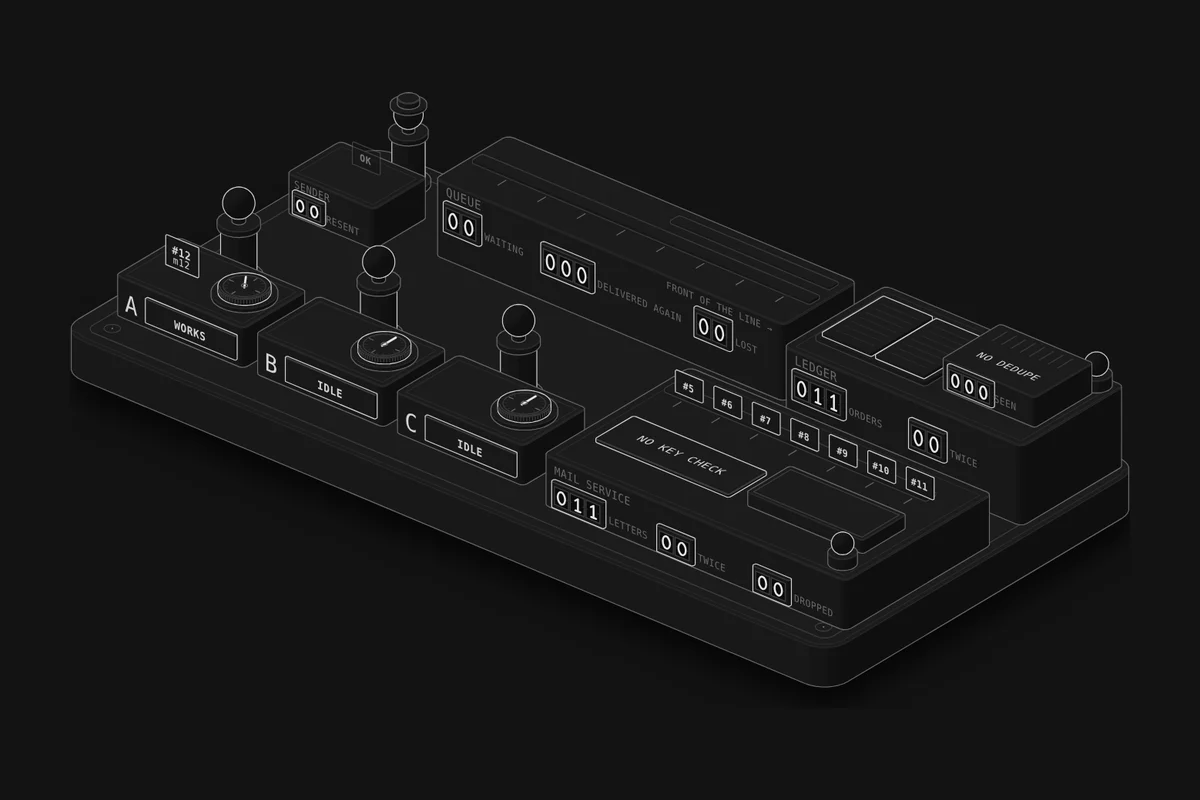
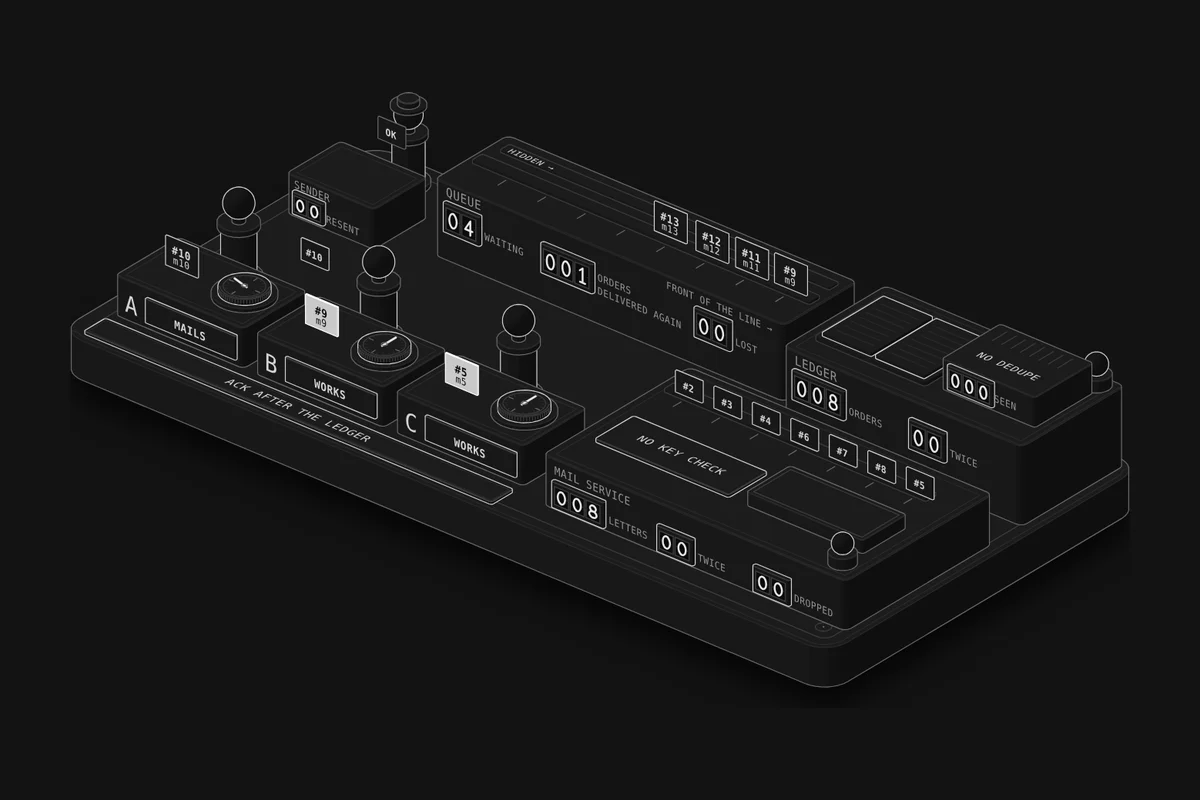
Lesson 69: fix review findings (hidden row, resent copies, lit key, ack plaque, Watch timing, caption)
- Envelopes in the hidden row are dimmed under a HIDDEN groove label, so idle workers no longer seem to ignore work.
- A resent order is narrated as a resent copy with its own message id; the counter reads ORDERS DELIVERED AGAIN.
- Lit means a repeat only: the DOWN plate and the lost reply no longer light; the key lists every lit part.
- A plaque in front of the desks shows the ack mode.
- Watch: the slow order and the lost reply are staged in the warm-up; the crash Watches skip the long timeout with a
  narrated clock jump; every outcome shows by 7 s. Ledger and mail lamps hold 1.6 s of page time.
- Every run opens with a slow order already past its timeout.
- The readout names the worker that held the envelope when its timeout ran out (logged at that moment).
- ES: SIN DEDUPLICAR, NO REVISA CLAVE. Caption under 150 words; model numbers moved to the note.

Claude-Session: https://claude.ai/code/session_01S5z2gCvevbrGU3fXgpGDmP

diff --git a/src/lessons/guarantees/live.ts b/src/lessons/guarantees/live.ts
@@ -18,7 +18,7 @@ export default function mount({ P, G, ENV_SVG, LETTER_SVG, SLIP_SVG, STATUS }, r
   const layers = Object.fromEntries(["rack", "desk", "sent", "fly"].map((n) => [n, q('[data-layer="' + n + '"]')]));
   const desks = [0, 1, 2].map((i) => ({ plate: q('[data-status-plate="' + i + '"]'), status: q('[data-status="' + i + '"]'), dial: WB.dial(svg, "vt" + i, P), shown: {} }));
   const counters = Object.fromEntries(["waiting", "again", "lost", "resent", "orders", "ledger2", "seen", "letters", "letters2", "dropped"].map((n) => [n, WB.counter(svg, n, P)]));
-  const plaques = { dedupe: [...svg.querySelectorAll("[data-dedupe-plaque]")], key: [...svg.querySelectorAll("[data-key-plaque]")] };
+  const plaques = { dedupe: [...svg.querySelectorAll("[data-dedupe-plaque]")], key: [...svg.querySelectorAll("[data-key-plaque]")], ack: [...svg.querySelectorAll("[data-ack-plaque]")] };
   const flash = { ledger: [q('[data-flash-ledger="on"]'), q('[data-flash-ledger="off"]')], mail: [q('[data-flash-mail="on"]'), q('[data-flash-mail="off"]')] };
   const NAME = "ABC";
   const DESK_TOP = (i) => [G.ENV_SPOT[i][0], G.ENV_SPOT[i][1], G.ENV_SPOT[i][2]];
@@ -35,33 +35,41 @@ export default function mount({ P, G, ENV_SVG, LETTER_SVG, SLIP_SVG, STATUS }, r
     if (kind === "letter") return { g, kind, lit: pick("[data-letter]"), a: pick("[data-letter-text]"), s: {} };
     return { g, kind, lit: pick("[data-slip]"), a: pick("[data-slip-text]"), s: {} };
   }
-  function dress(el, a, b, lit) {
+  function dress(el, a, b, lit, hidden = false) {
     const s = el.s;
     if (s.a !== a) { s.a = a; setText(el.a, a); }
     if (el.b && s.b !== b) { s.b = b; setText(el.b, b); }
     if (s.lit !== lit) { s.lit = lit; setLit(el.lit, lit); }
+    if (s.hidden !== hidden) { s.hidden = hidden; el.g.setAttribute("opacity", hidden ? "0.38" : "1"); }
   }
   const sprites = new Map();   // key -> { kind, el, pos, mid, layer, leaving, until }
   function drop(key) { const sp = sprites.get(key); sp.el.g.remove(); pools[sp.kind].push(sp.el); sprites.delete(key); }
 
   // ---------- settings and the run ----------
   const cfg = { ack: "after", vt: "10", crash: "0.1", lost: "0", dedupe: "off", key: "plain", speed: 1 };
-  let model, clock, logAt, seed = 5, sent, dropped, replies, flashAt, stages, held, saidAt, saidRank, quietSince;
+  let model, clock, logAt, seed = 5, sent, dropped, replies, flashAt, stages, held, saidAt, saidRank, quietSince, jump;
   const WARM = 24;
+  const wallNow = () => performance.now() / 1000;
 
   function modelCfg() {
     return { ack: cfg.ack, vt: cfg.vt === "60" ? 60 : 10, heartbeat: cfg.vt === "hb", crash: Number(cfg.crash), lostAck: Number(cfg.lost), dedupe: cfg.dedupe, key: cfg.key === "key" };
   }
-  function restart(warm = WARM) {
+  // A run opens with an incident already under way: a slow order (14 s of work) received 8 s before the first frame, so
+  // with the 10 s timeout its envelope is handed out a second time 2 s in, and the order is written twice by 18 s.
+  // A Watch passes its own warm-up step instead (or none).
+  const incident = (m, warm) => { m.runTo(warm - 8); m.slowOrder(14); };
+  function restart(warm = WARM, pre = incident) {
     for (const key of [...sprites.keys()]) drop(key);
     model = makeSim(modelCfg(), seed);
     seed = (seed * 7 + 3) % 9973 + 1;
     clock = warm; logAt = 0; sent = []; dropped = []; replies = []; flashAt = { ledger: -9, mail: -9 }; stages = [];
-    held = null; saidAt = -9; saidRank = 0; quietSince = 0;
+    held = null; saidAt = -9; saidRank = 0; quietSince = 0; jump = null;
+    if (pre) pre(model, warm);
     model.runTo(clock);
     narrate(true);
     plaques.dedupe.forEach((g) => show(g, g.getAttribute("data-dedupe-plaque") === cfg.dedupe));
     plaques.key.forEach((g) => show(g, g.getAttribute("data-key-plaque") === (cfg.key === "key" ? "on" : "off")));
+    plaques.ack.forEach((g) => show(g, g.getAttribute("data-ack-plaque") === cfg.ack));
     paint(0, true);
     showStats();
   }
@@ -90,27 +98,33 @@ export default function mount({ P, G, ENV_SVG, LETTER_SVG, SLIP_SVG, STATUS }, r
       if (e.t > clock) break;
       const o = e.m ? e.m.o : e.o, id = o ? "#" + o.id : "", w = e.w ? NAME[e.w.i] : "", mid = e.m ? "m" + e.m.mid : "";
       if (e.type === "stored") replies.push({ t: e.t, lose: e.lose, id });
-      if (e.type === "letter") { sent.push({ key: "S" + e.t.toFixed(4) + o.id, id, dup: e.n >= 2 }); if (sent.length > G.SENT) sent.shift(); if (e.n >= 2) flashAt.mail = e.t; }
+      if (e.type === "letter") { sent.push({ key: "S" + e.t.toFixed(4) + o.id, id, dup: e.n >= 2 }); if (sent.length > G.SENT) sent.shift(); if (e.n >= 2 && !quiet) flashAt.mail = wallNow(); }
       if (e.type === "dropped") { dropped.push({ key: "T" + e.t.toFixed(4) + o.id, id }); if (dropped.length > 3) dropped.shift(); }
-      if (e.type === "ledger" && e.n >= 2) flashAt.ledger = e.t;
+      if (e.type === "ledger" && e.n >= 2 && !quiet) flashAt.ledger = wallNow();
       if (quiet) continue;
       switch (e.type) {
         case "receive":
           if (e.skip) break;
           if (e.copy) {
+            // a second message for the same order (the sender resent it) is a copy with its own id, not the same one again
             const other = model.workers.find((x) => x.att && x !== e.w && x.att.o === o);
-            say(3, other ? T(w + " receives " + id + " again · " + NAME[other.i] + " is still working on it", w + " recibe " + id + " de nuevo · " + NAME[other.i] + " sigue trabajando en él")
-              : T(w + " receives " + id + " again (" + mid + ")", w + " recibe " + id + " de nuevo (" + mid + ")"));
+            const resent = e.m.resent && e.m.receives === 1;
+            const what = resent ? T(w + " receives " + id + "'s resent copy (" + mid + ")", w + " recibe la copia reenviada de " + id + " (" + mid + ")")
+              : T(w + " receives " + id + " (" + mid + ") again", w + " recibe " + id + " (" + mid + ") de nuevo");
+            say(3, other ? T(what.en + " · " + NAME[other.i] + " is still working on it", what.es + " · " + NAME[other.i] + " sigue trabajando en él") : what);
           } else say(0, T(w + " takes " + id + " from the front of the line", w + " toma " + id + " del frente de la fila"));
           break;
         case "shown":
-          if (e.held) say(4, T(id + ": timeout ran out while " + NAME[e.m.holder ? e.m.holder.i : 0] + " still works on it · back in line", id + ": venció su tiempo mientras " + NAME[e.m.holder ? e.m.holder.i : 0] + " sigue con él · vuelve a la fila"));
+          // the worker that still has it when the timeout ran out (the message's holder changes once someone takes it again)
+          if (e.held) say(4, T(id + ": timeout ran out while " + NAME[e.holder] + " still works on it · back in line", id + ": venció su tiempo mientras " + NAME[e.holder] + " sigue con él · vuelve a la fila"));
           else say(3, T(id + ": timeout ran out · back at the front of the line", id + ": venció su tiempo · vuelve al frente de la fila"));
           break;
         case "crash": {
           const after = { letter: T(" after mailing " + id + "'s letter", " después de enviar la carta de " + id), ledger: T(" after writing " + id, " después de escribir " + id), work: T(" after the work on " + id, " después del trabajo de " + id), ack: T(" right after acking " + id, " justo después del ack de " + id) }[e.after];
           const rest = cfg.ack === "first" ? T("", "") : T(" · the envelope waits hidden for its timeout", " · el sobre espera oculto a que venza su tiempo");
           say(5, T(w + " crashed" + (after ? after.en : " on " + id) + rest.en, w + " se cayó" + (after ? after.es : " con " + id) + rest.es));
+          // a Watch about a crash skips most of the long timeout, so the redelivery comes within seconds
+          if (jump && jump.armed && e.after === "letter" && !e.m.acked && cfg.ack !== "first") jump = { at: e.t + 3, to: e.m.visibleAt - 2.5, crashed: e.t, id, w };
           break;
         }
         case "letter": say(e.n >= 2 ? 5 : 0, e.n >= 2 ? T(id + ": the customer gets the same letter a second time", id + ": el cliente recibe la misma carta por segunda vez") : T(w + " mailed " + id + "'s letter", w + " envió la carta de " + id)); break;
@@ -133,13 +147,13 @@ export default function mount({ P, G, ENV_SVG, LETTER_SVG, SLIP_SVG, STATUS }, r
   const stepStart = (a, k) => (k > 0 ? a.steps[k - 1].end : a.start);
   function wanted() {
     const out = new Map();
-    const env = (key, m, target, layer, lit, spawn) => out.set(key, { kind: "env", mid: m.mid, target, layer, lit, a: "#" + m.o.id, b: "m" + m.mid, spawn, ease: true });
+    const env = (key, m, target, layer, lit, spawn, hidden = false) => out.set(key, { kind: "env", mid: m.mid, target, layer, lit, a: "#" + m.o.id, b: "m" + m.mid, spawn, ease: true, hidden });
     model.visible.slice(0, G.SLOTS).forEach((m, i) => env("q" + m.mid, m, [G.SLOT_X[i], G.RACK_Y, G.RACK_Z], "rack", false,
       m.receives === 0 ? [...G.SENDER_AT] : m.holder ? DESK_TOP(m.holder.i) : null));
     let j = 0;
     for (const m of model.inflight) {
       if (m.holder || j >= G.HIDE_X.length) continue;
-      env("q" + m.mid, m, [G.HIDE_X[j++], G.HIDE_Y, G.RACK_Z], "rack", false, null);
+      env("q" + m.mid, m, [G.HIDE_X[j++], G.HIDE_Y, G.RACK_Z], "rack", false, null, true);
     }
     for (const w of model.workers) {
       const a = w.att;
@@ -193,7 +207,7 @@ export default function mount({ P, G, ENV_SVG, LETTER_SVG, SLIP_SVG, STATUS }, r
       }
       sp.leaving = false; sp.el.g.style.opacity = "";
       sp.mid = w.mid; sp.target = w.target; sp.want = w;
-      dress(sp.el, w.a, w.b, w.lit);
+      dress(sp.el, w.a, w.b, w.lit, !!w.hidden);
     }
     for (const [key, sp] of sprites) {
       if (want.has(key)) continue;
@@ -230,12 +244,13 @@ export default function mount({ P, G, ENV_SVG, LETTER_SVG, SLIP_SVG, STATUS }, r
       let st = "idle";
       if (down) st = "down";
       else if (a && a.steps[a.k]) { const name = a.steps[a.k].name; st = name === "check" && a.skip ? "skip" : name; }
-      if (s.st !== st) { s.st = st; setText(d.status, L(STATUS[st])); setLit(d.plate, st === "down"); }
+      if (s.st !== st) { s.st = st; setText(d.status, L(STATUS[st])); }
       let v = 0;
       if (a && cfg.ack !== "first" && !a.m.acked && a.m.lastRecv === a.recv) v = clamp((a.m.visibleAt - clock) / model.cfg.vt);
       if (s.v === undefined || Math.abs(s.v - v) > 0.004) { s.v = v; d.dial.set(v); }
     });
-    for (const k of ["ledger", "mail"]) { const on = clock - flashAt[k] < 1.4; show(flash[k][0], on); show(flash[k][1], !on); }
+    // the lamps stay lit 1.6 s of page time, whatever the speed
+    for (const k of ["ledger", "mail"]) { const on = wallNow() - flashAt[k] < 1.6; show(flash[k][0], on); show(flash[k][1], !on); }
     const st = model.st;
     counters.waiting.setClamped(model.visible.length);
     counters.again.setClamped(st.again);
@@ -264,6 +279,16 @@ export default function mount({ P, G, ENV_SVG, LETTER_SVG, SLIP_SVG, STATUS }, r
   const loop = WB.loop({ stage, step: (dt) => {
     clock += dt * cfg.speed;
     while (stages.length && clock >= stages[0].at) stages.shift().run();
+    if (jump && jump.at !== undefined && clock >= jump.at) {
+      const j = jump; jump = null;
+      if (j.to > clock) {
+        clock = j.to; model.runTo(clock); narrate(true);
+        for (const key of [...sprites.keys()]) drop(key);
+        const secs = Math.round(clock - j.crashed);
+        say(8, T(secs + " s later · " + j.id + " still waits hidden: nothing tells the queue that " + j.w + " crashed", secs + " s después · " + j.id + " sigue oculto: nada le avisa a la cola que " + j.w + " se cayó"));
+        paint(0, true);
+      }
+    }
     model.runTo(clock);
     paint(dt);
     statTimer += dt; if (statTimer > 0.2) { statTimer = 0; showStats(); }
@@ -279,12 +304,12 @@ export default function mount({ P, G, ENV_SVG, LETTER_SVG, SLIP_SVG, STATUS }, r
   root.on("change", (name, value) => set(name, value));
   const wake = () => { if (loop.paused) loop.setPaused(false); };
   const acts = {
-    slow: () => { const o = model.slowOrder(26); say(6, T("slow order #" + o.id + " sent: 26 s of work", "pedido lento #" + o.id + " enviado: 26 s de trabajo")); },
+    slow: (secs = 26) => { const o = model.slowOrder(secs); say(6, T("slow order #" + o.id + " sent: " + secs + " s of work", "pedido lento #" + o.id + " enviado: " + secs + " s de trabajo")); },
     crash: () => { model.crashAfterLetter(); say(6, T("the next worker to mail a letter will crash right after it", "el próximo trabajador que envíe una carta se caerá justo después")); },
     lose: () => { const o = model.loseNextAck(); say(6, T("order #" + o.id + " sent · the queue's reply will be lost", "pedido #" + o.id + " enviado · se perderá la respuesta de la cola")); },
   };
   const actions = {
-    slow: () => { acts.slow(); wake(); },
+    slow: () => { acts.slow(26); wake(); },
     crash: () => { acts.crash(); wake(); },
     lose: () => { acts.lose(); wake(); },
     reset: () => { restart(); say(9, T("started over", "empezó de nuevo")); },
@@ -295,11 +320,26 @@ export default function mount({ P, G, ENV_SVG, LETTER_SVG, SLIP_SVG, STATUS }, r
   root.on("watch", (w) => {
     for (const key of ["ack", "vt", "crash", "lost", "dedupe", "key"]) set(key, w[key], true);
     set("speed", String(w.speed || 1));
-    restart(8);
+    // the moment each Watch is about, staged in the warm-up where it would otherwise come too late to see
+    let o = null;
+    const pre = {
+      // a slow order of 15 s, received 9 s before the press: its 10 s timeout runs out 1 s in, a second worker takes it
+      // while the first still works, and both write it within about 20 s of model time
+      slow: (m, wm) => { m.runTo(wm - 9); o = m.slowOrder(15); },
+      // the queue's reply to an order was lost 2.5 s before the press: the sender resends it half a second in
+      lose: (m, wm) => { m.runTo(wm - 2.5); o = m.loseNextAck(); },
+    }[w.stage] || null;
+    restart(12, pre);
     const at = (dt, run) => stages.push({ at: clock + dt, run });
-    if (w.stage === "slow") at(0.8, acts.slow);
-    if (w.stage === "crash" || w.stage === "letter") at(0.8, acts.crash);
-    if (w.stage === "lose") at(0.8, acts.lose);
+    const holder = () => { const x = o && model.workers.find((k) => k.att && k.att.o === o); return x ? NAME[x.i] : null; };
+    if (w.stage === "slow") {
+      const h = holder();
+      say(7, h ? T("slow order #" + o.id + ", 15 s of work, has been at " + h + "'s desk for 9 s · its timeout is 10 s", "el pedido lento #" + o.id + ", de 15 s de trabajo, lleva 9 s en el escritorio de " + h + " · su tiempo es de 10 s")
+        : T("slow order #" + o.id + ": 15 s of work, a 10 s timeout", "pedido lento #" + o.id + ": 15 s de trabajo, un tiempo de 10 s"));
+    }
+    if (w.stage === "lose") say(7, T("the queue's reply about #" + o.id + " was lost · the sender will send it again", "se perdió la respuesta de la cola sobre #" + o.id + " · el remitente lo volverá a enviar"));
+    // a crash right after a letter: an order sent now (so a letter comes within seconds), the next letter crashes its worker
+    if (w.stage === "crash" || w.stage === "letter") { at(0.5, () => { model.slowOrder(2); acts.crash(); }); jump = { armed: true }; }
     if (w.stage === "all") { at(0.8, acts.slow); at(3, acts.lose); at(6, acts.crash); }
     stages.sort((a, b) => a.at - b.at);
     wake();

diff --git a/src/lessons/guarantees/page.ts b/src/lessons/guarantees/page.ts
@@ -83,7 +83,7 @@ const EXPERIMENTS = [
       "The timeout starts when a worker receives the message, and the queue can't tell a slow worker from a dead one. When 10 s pass without an ack, the message becomes visible again and the next free worker receives it, while the first one is still working on it. Nothing failed, and the order is written twice: " + k1(A.short.ledgerTwice) + " orders per 1,000, all of them slow ones; those still running at 20 s went out a third time (" + k1(A.short.ledgerThrice) + " per 1,000). The copies cost capacity too: " + pct(A.short.copyShare) + " of the workers' time went on orders someone else was already doing. In lesson 33, Queues, the repeats came from crashes; here the timeout alone makes them. A waiting message's clock doesn't run: that's the retention period, a different setting. SQS's default visibility timeout is 30 s; set it above your slowest processing, or extend it while you work (the next experiment).",
       "El tiempo empieza cuando un trabajador recibe el mensaje, y la cola no distingue un trabajador lento de uno muerto. Cuando pasan 10 s sin ack, el mensaje vuelve a quedar visible y el siguiente trabajador libre lo recibe, mientras el primero todavía trabaja en él. Nada falló, y el pedido se escribe dos veces: " + k1(A.short.ledgerTwice) + " pedidos cada 1000, todos lentos; los que seguían a los 20 s salieron una tercera vez (" + k1(A.short.ledgerThrice) + " cada 1000). Las copias también cuestan capacidad: el " + pct(A.short.copyShare) + " del tiempo de los trabajadores se fue en pedidos que otro ya estaba haciendo. En la lección 33, Colas, las repeticiones venían de caídas; aquí las produce solo el tiempo de invisibilidad (visibility timeout). El reloj de un mensaje que espera en la fila no corre: eso es el período de retención, otro ajuste. El valor por defecto en SQS es 30 s; ponlo por encima de tu procesamiento más lento, o extiéndelo mientras trabajas (el siguiente experimento).",
     ),
-    watch: { ack: "after", vt: "10", crash: "0", lost: "0", dedupe: "off", key: "plain", stage: "slow" },
+    watch: { ack: "after", vt: "10", crash: "0", lost: "0", dedupe: "off", key: "plain", stage: "slow", speed: 3 },
   },
   {
     id: "beat",
@@ -155,7 +155,7 @@ const EXPERIMENTS = [
       "Deliveries didn't change: " + k1(E.keyed.again) + " orders per 1,000 were delivered more than once, because every source of repeats is still there and no queue setting removes them all. What changed is what a repeat does. The ledger refuses a second entry for an order id it has recorded, because the id is recorded in the same transaction as the entry (recorded separately, after the effect, a crash in between lets the repeat through: lesson 24, Outbox pattern). The mail service drops a letter whose key it has seen: letters sent twice went from " + k1(E.plain.lettersTwice) + " per 1,000 orders to " + k1(E.keyed.lettersTwice) + ", and " + k1(E.keyed.dropped) + " repeats per 1,000 were dropped. Copies running at the same time, from the short timeout, are covered as well: the second to commit finds its id taken. That's effectively once: at-least-once delivery, with every effect idempotent on its own.",
       "Las entregas no cambiaron: " + k1(E.keyed.again) + " pedidos cada 1000 se entregaron más de una vez, porque todas las fuentes de repeticiones siguen ahí y ningún ajuste de la cola las elimina todas. Lo que cambió es lo que hace una repetición. El libro rechaza una segunda entrada para un id de pedido que ya registró, porque el id se registra en la misma transacción que la entrada (registrado aparte, después del efecto, una caída en el medio deja pasar la repetición: lección 24, Patrón outbox). El servicio de correo descarta una carta cuya clave ya vio: las cartas enviadas dos veces pasaron de " + k1(E.plain.lettersTwice) + " cada 1000 pedidos a " + k1(E.keyed.lettersTwice) + ", y se descartaron " + k1(E.keyed.dropped) + " repeticiones cada 1000. Las copias que corren al mismo tiempo, por el tiempo corto, también quedan cubiertas: la segunda en hacer commit encuentra su id ocupado. Eso es efectivamente una vez (effectively-once): entrega al menos una vez, con cada efecto idempotente por su cuenta.",
     ),
-    watch: { ack: "after", vt: "10", crash: "0.1", lost: "0.1", dedupe: "order", key: "key", stage: "all" },
+    watch: { ack: "after", vt: "10", crash: "0.1", lost: "0.1", dedupe: "order", key: "key", stage: "all", speed: 3 },
   },
 ];
 
@@ -191,13 +191,13 @@ export default defineLesson({
     plate: {
       title: t("Mail-order room", "Sala de pedidos por correo"),
       keys: [
-        { mark: "lit", label: t("An envelope still being worked after its timeout ran out; a letter sent twice; a lost reply; the lamps when an order is written or mailed twice", "Un sobre que se sigue trabajando después de que venció su tiempo; una carta enviada dos veces; una respuesta perdida; las lámparas cuando un pedido se escribe o se envía dos veces") },
+        { mark: "lit", label: t("A repeat: an envelope still being worked after its timeout ran out, so another worker can get the same order; a letter sent a second time; the lamps on the ledger and the mail service when an order is written or mailed twice", "Una repetición: un sobre que se sigue trabajando después de que venció su tiempo, así que otro trabajador puede recibir el mismo pedido; una carta enviada por segunda vez; las lámparas del libro y del servicio de correo cuando un pedido se escribe o se envía dos veces") },
         { mark: "raised", label: t("Envelopes: order number on top, the queue's message id below", "Sobres: número de pedido arriba, id de mensaje de la cola abajo") },
-        { mark: "flat", label: t("The queue's line on its rack, the front on the right; a crashed worker's envelope waits hidden in the row behind it", "La fila de la cola en su estante, con el frente a la derecha; el sobre de un trabajador caído espera oculto en la hilera de atrás") },
+        { mark: "flat", label: t("The queue's line on its rack, the front on the right; behind it the hidden row, where a crashed worker's envelope waits, dimmed", "La fila de la cola en su estante, con el frente a la derecha; detrás, la hilera oculta, donde espera atenuado el sobre de un trabajador caído") },
       ],
       caption: t(
-        "The sender (back left) puts each order in an envelope and sends it to the queue; if the queue's reply doesn't come back within " + RETRY + " s, it sends the order again as a new message (RESENT). Workers A, B and C take the envelope at the front of the line. The dial on each desk is that envelope's visibility timeout: when it runs out before the ack, the queue puts the message back at the front of the line and the worker's envelope lights, because someone else can now get the same order. A job: the work (" + WORK_RANGE + ", or " + SLOW_RANGE + " for one order in " + SLOW_EVERY + "), the letter through the mail service, the entry in the ledger, then the ack; in the transaction mode the entry and the ack commit together. A crashed worker is back after " + DOWN + " s, and its envelope waits in the hidden row on the queue until its timeout runs out. The index box on the ledger is the dedupe table, kept with the entries; the plate on the mail service says whether it checks idempotency keys, and the repeats it drops land in its tray. " + RATE + " orders a second for " + WORKERS + " workers; times are illustrative and round.",
-        "El remitente (al fondo a la izquierda) pone cada pedido en un sobre y lo envía a la cola; si la respuesta de la cola no vuelve en " + RETRY + " s, envía el pedido otra vez como un mensaje nuevo (REENVÍOS). Los trabajadores A, B y C toman el sobre del frente de la fila. El dial de cada escritorio es el tiempo de invisibilidad de ese sobre: cuando vence antes del ack, la cola vuelve a poner el mensaje al frente de la fila y el sobre del trabajador se enciende, porque ahora otro puede recibir el mismo pedido. Una tarea: el trabajo (" + WORK_RANGE + ", o " + SLOW_RANGE + " para uno de cada " + SLOW_EVERY + " pedidos), la carta por el servicio de correo, la entrada en el libro y después el ack; en el modo de transacción, la entrada y el ack se confirman juntos. Un trabajador caído vuelve a los " + DOWN + " s, y su sobre espera en la hilera oculta de la cola hasta que vence su tiempo. La caja de fichas del libro es la tabla de deduplicación, guardada junto a las entradas; la placa del servicio de correo dice si revisa claves de idempotencia, y las repeticiones que descarta caen en su bandeja. " + RATE + " pedidos por segundo para " + WORKERS + " trabajadores; los tiempos son ilustrativos y redondos.",
+        "The sender (back left) sends each order to the queue; if the queue's reply doesn't come back within " + RETRY + " s, it sends the order again as a new message (RESENT). Workers A, B and C take the envelope at the front of the line; the dial on each desk is its visibility timeout. If it runs out before the ack, the queue hands the message out again and the worker's envelope lights. A job is the work, a letter through the mail service, a ledger entry and the ack, in the order on the plaque in front of the desks. A crashed worker is back after " + DOWN + " s; its envelope waits in the hidden row until its timeout runs out. The index box on the ledger is the dedupe table; the plate on the mail service says whether it checks idempotency keys, and its tray holds the repeats it drops.",
+        "El remitente (al fondo a la izquierda) envía cada pedido a la cola; si la respuesta de la cola no vuelve en " + RETRY + " s, envía el pedido otra vez como un mensaje nuevo (REENVÍOS). Los trabajadores A, B y C toman el sobre del frente de la fila; el dial de cada escritorio es su tiempo de invisibilidad. Si vence antes del ack, la cola vuelve a entregar el mensaje y se enciende el sobre del trabajador. Una tarea es el trabajo, una carta por el servicio de correo, una entrada en el libro y el ack, en el orden de la placa delante de los escritorios. Un trabajador caído vuelve a los " + DOWN + " s; su sobre espera en la hilera oculta hasta que vence su tiempo. La caja de fichas del libro es la tabla de deduplicación; la placa del correo dice si revisa claves de idempotencia, y su bandeja guarda las repeticiones descartadas.",
       ),
       stage: { "data-mailroom": "" },
       label: t("Delivery guarantees simulation. Space pauses or resumes.", "Simulación de garantías de entrega. Espacio pausa o reanuda."),
@@ -205,7 +205,7 @@ export default defineLesson({
     svg: buildFigure(),
     stats: [
       ["waiting", t("Waiting", "En espera")],
-      ["again", t("Delivered again", "Reentregados")],
+      ["again", t("Orders delivered again", "Pedidos reentregados")],
       ["lost", t("Lost", "Perdidos")],
       ["ledger2", t("Ledger twice", "Dos veces en el libro")],
       ["letters2", t("Letters twice", "Cartas dos veces")],
@@ -221,8 +221,8 @@ export default defineLesson({
       { speed: true },
       { actions: [["slow", t("Send a slow order", "Enviar un pedido lento"), { primary: true }], ["crash", t("Crash after a letter", "Caída tras una carta")], ["lose", t("Lose the next reply", "Perder la próxima respuesta")], ["reset", t("Start over", "Empezar de nuevo")], ["pause", t("Pause", "Pausa")]], label: t("Do something", "Haz algo") },
     ],
-    note: t("Changing a setting starts the run again. Crash after a letter makes the next worker to mail a letter crash right after it, before the ledger and the ack. With the heartbeat, a worker pushes its timeout 10 s ahead every " + HB + " s while it works.",
-      "Cambiar un ajuste reinicia la ejecución. Caída tras una carta hace que el próximo trabajador que envíe una carta se caiga justo después, antes del libro y del ack. Con el heartbeat, un trabajador corre su tiempo 10 s hacia adelante cada " + HB + " s mientras trabaja."),
+    note: t("Changing a setting starts the run again, with a slow order already at a desk. The work takes " + WORK_RANGE + ", or " + SLOW_RANGE + " for one order in " + SLOW_EVERY + "; " + RATE + " orders a second for " + WORKERS + " workers; times are illustrative and round. Crash after a letter makes the next worker to mail a letter crash right after it, before the ledger and the ack. With the heartbeat, a worker pushes its timeout 10 s ahead every " + HB + " s while it works.",
+      "Cambiar un ajuste reinicia la ejecución, con un pedido lento ya en un escritorio. El trabajo tarda " + WORK_RANGE + ", o " + SLOW_RANGE + " para uno de cada " + SLOW_EVERY + " pedidos; " + RATE + " pedidos por segundo para " + WORKERS + " trabajadores; los tiempos son ilustrativos y redondos. Caída tras una carta hace que el próximo trabajador que envíe una carta se caiga justo después, antes del libro y del ack. Con el heartbeat, un trabajador corre su tiempo 10 s hacia adelante cada " + HB + " s mientras trabaja."),
   },
   predict: { intro: t("Each experiment changes one thing. Choose what you expect <em>before</em> running it. Results come from the same model as the machine, averaged over eight seeded runs of an hour each, and counted per 1,000 orders.",
     "Cada experimento cambia una sola cosa. Elige lo que esperas <em>antes</em> de ejecutarlo. Los resultados salen del mismo modelo que la máquina, promediados sobre ocho ejecuciones con semilla fija de una hora cada una, y se cuentan cada 1000 pedidos."), experiments: withResults(EXPERIMENTS, RUNS) },

diff --git a/src/lessons/guarantees/figure.ts b/src/lessons/guarantees/figure.ts
@@ -33,9 +33,11 @@ export const SLOTS = 8;
 export const SLOT_X = Array.from({ length: SLOTS }, (_, i) => QD.x + QD.w - 10 - i * 13.6);
 export const RACK_Z = QD_H + 0.6;
 export const QUEUE_IN = [QD.x + 8, RACK_Y, QD_H + 1];   // where the sender's envelopes land (the back of the line)
-// The hidden row behind the line: envelopes out to a worker that crashed wait here until their timeout runs out.
+// The hidden row behind the line: envelopes out to a worker that crashed wait here, dimmed, until their timeout runs
+// out; its groove carries the word HIDDEN at its left end.
 export const HIDE_Y = QD.y + 6;
 export const HIDE_X = Array.from({ length: 4 }, (_, i) => QD.x + QD.w - 10 - i * 13.6);
+const HIDE_GROOVE = { x0: QD.x + 4, x1: HIDE_X[0] + 7 };
 
 // The ledger, back right: an open book and the dedupe table's index box.
 const LG = { x: 44, y: -104, w: 82, d: 42, r: 2 };
@@ -104,14 +106,16 @@ function queue() {
   // the rack: a groove the envelopes stand in, and a mark under each place in the line
   out.push(S(k.slabOf({ x: QD.x + 2, y: RACK_Y - 2.2, w: QD.w - 4, d: 4.4, r: 0.6 }, QD_H, 0.8, P, 2), { tone: "lo", crease: "none" }));
   out.push(L(SLOT_X.map((x) => k.lineOnTop([x, RACK_Y + 3.4], [x, RACK_Y + 6.6], QD_H, P)).join(""), { tone: "mid" }));
-  out.push(S(k.slabOf({ x: HIDE_X[3] - 7, y: HIDE_Y - 2, w: HIDE_X[0] - HIDE_X[3] + 14, d: 4, r: 0.6 }, QD_H, 0.6, P, 2), { tone: "lo", crease: "none" }));
+  out.push(S(k.slabOf({ x: HIDE_GROOVE.x0, y: HIDE_Y - 2, w: HIDE_GROOVE.x1 - HIDE_GROOVE.x0, d: 4, r: 0.6 }, QD_H, 0.6, P, 2), { tone: "lo", crease: "none" }));
+  out.push(faceText(P, [HIDE_GROOVE.x0 + 2, HIDE_Y + 1.5, QD_H + 0.6], t("HIDDEN →", "OCULTOS →"), { face: "top", size: 3, tone: "hi" }));
   const z1 = 9.4, z2 = 19.4;
   out.push(text(QD.x + 4, QD_FRONT, z2, t("QUEUE", "COLA"), TITLE));
   out.push(text(QD.x + QD.w - 4, QD_FRONT, z2, t("FRONT OF THE LINE →", "FRENTE DE LA FILA →"), LABEL, { anchor: "end" }));
   out.push(counter({ x: QD.x + 4, y: QD_FRONT, z: z1, count: 2, name: "waiting" }));
   out.push(text(QD.x + 17.2, QD_FRONT, z1 + 1.6, t("WAITING", "EN ESPERA"), LABEL));
   out.push(counter({ x: QD.x + 37.4, y: QD_FRONT, z: z1, count: 3, name: "again" }));
-  out.push(text(QD.x + 56, QD_FRONT, z1 + 1.6, t("DELIVERED AGAIN", "REENTREGADOS"), LABEL));
+  out.push(text(QD.x + 56, QD_FRONT, z1 + 3.6, t("ORDERS", "PEDIDOS"), LABEL));
+  out.push(text(QD.x + 56, QD_FRONT, z1 - 0.4, t("DELIVERED AGAIN", "REENTREGADOS"), LABEL));
   out.push(counter({ x: QD.x + 90, y: QD_FRONT, z: z1, count: 2, name: "lost" }));
   out.push(text(QD.x + 103.2, QD_FRONT, z1 + 1.6, t("LOST", "PERDIDOS"), LABEL));
   return out.join("");
@@ -148,7 +152,7 @@ function indexBox() {
   const front = IDX.y + IDX.d;
   out.push(counter({ x: IDX.x + 2.6, y: front, z: LG_H + 1.4, count: 3, w: 4.2, h: 5.4, pad: 0.9, name: "seen" }));
   out.push(text(IDX.x + 18, front, LG_H + 2.8, t("SEEN", "VISTOS"), LABEL));
-  for (const [key, words] of [["off", t("NO DEDUPE", "SIN DEDUPE")], ["msg", t("MSG IDS", "IDS MENSAJE")], ["order", t("ORDER IDS", "IDS PEDIDO")]]) {
+  for (const [key, words] of [["off", t("NO DEDUPE", "SIN DEDUPLICAR")], ["msg", t("MSG IDS", "IDS MENSAJE")], ["order", t("ORDER IDS", "IDS PEDIDO")]]) {
     out.push(`<g data-dedupe-plaque="${key}"${key === "off" ? "" : ' style="display:none"'}>${faceText(P, [IDX.x + IDX.w / 2, IDX.y + 17, top], words, { face: "top", size: 3.6, tone: "hi", anchor: "middle" })}</g>`);
   }
   return out.join("");
@@ -180,6 +184,18 @@ function worker(i) {
   }, "run");
 }
 
+// The workers' ack rule: a plaque on the base in front of the desks (one wording per ack mode, the live code shows one).
+const ACK_PLATE = { x: DX[0] - DESK.w / 2, y: DESK_FRONT + 4, w: DX[2] - DX[0] + DESK.w, d: 9 };
+function ackPlaque() {
+  const out = [S(k.slabOf({ ...ACK_PLATE, r: 0.8 }, 0, 0.8, P, 3, 0.3), { tone: "hi", crease: "lo" })];
+  out.push(L(k.planOutline(k.insetPlan({ ...ACK_PLATE, r: 0.8 }, 0.9), 0.8, P), { tone: "faint" }));
+  const words = { first: t("ACK ON RECEIPT, THEN THE WORK", "ACK AL RECIBIR, DESPUÉS EL TRABAJO"), after: t("ACK AFTER THE LEDGER", "ACK DESPUÉS DEL LIBRO"), txn: t("LEDGER AND ACK: ONE TRANSACTION", "LIBRO Y ACK: UNA TRANSACCIÓN") };
+  for (const [key, w] of Object.entries(words)) {
+    out.push(`<g data-ack-plaque="${key}"${key === "after" ? "" : ' style="display:none"'}>${faceText(P, [ACK_PLATE.x + ACK_PLATE.w / 2, ACK_PLATE.y + ACK_PLATE.d / 2 + 1.4, 0.8], w, { face: "top", size: 3.8, tone: "hi", anchor: "middle" })}</g>`);
+  }
+  return out.join("");
+}
+
 // ---------- the mail service ----------
 function mail() {
   const out = [S(k.slabOf(PO, 0, PO_H, P, 3, 0.6), { tone: "mid" })];
@@ -189,7 +205,7 @@ function mail() {
   out.push(L(SENT_X.map((x) => k.lineOnTop([x, SENT_Y + 3.4], [x, SENT_Y + 6.6], PO_H, P)).join(""), { tone: "mid" }));
   // the key check: a plate on the top that says whether the service checks idempotency keys
   out.push(S(k.slabOf({ ...KEY_PLATE, r: 0.8 }, PO_H, 0.8, P, 3, 0.3), { tone: "hi", crease: "lo" }));
-  for (const [key, words] of [["off", t("NO KEY CHECK", "SIN CLAVE")], ["on", t("KEY CHECK", "REVISA CLAVE")]]) {
+  for (const [key, words] of [["off", t("NO KEY CHECK", "NO REVISA CLAVE")], ["on", t("KEY CHECK", "REVISA CLAVE")]]) {
     out.push(`<g data-key-plaque="${key}"${key === "off" ? "" : ' style="display:none"'}>${faceText(P, [KEY_PLATE.x + KEY_PLATE.w / 2, KEY_PLATE.y + KEY_PLATE.d / 2 + 1.2, PO_H + 0.8], words, { face: "top", size: 3.8, tone: "hi", anchor: "middle" })}</g>`);
   }
   // the tray where repeats with a known key are dropped
@@ -206,7 +222,8 @@ function mail() {
 }
 
 // ---------- moving things, drawn at the origin and moved with translateAlong ----------
-// An envelope: order number on top, message id below. Lit when its visibility timeout ran out while a worker still has it.
+// An envelope: order number on top, message id below. Lit when its visibility timeout ran out while a worker still has it;
+// dimmed (the live code) while it waits in the hidden row.
 export function envelopeSvg() {
   return `<g class="wb-lit-group" data-env>${card(P, { x: -5.5, y: 0.3, z: 0, w: 11, h: 8.8, text: "#0", sub: "m0", size: 3.4, subSize: 3, attr: "data-env-o", subAttr: "data-env-m" })}</g>`;
 }
@@ -224,8 +241,8 @@ export function buildFigure() {
     width: WIDTH,
     height: HEIGHT,
     label: t(
-      "A mail-order room on a base plate. At the back left, the sender sends each order as an envelope to the queue; a counter on the sender's booth shows how many it sent again because the queue's reply never came. At the back middle, the queue's rack holds the envelopes waiting in line, the front of the line on the right; counters show how many wait, how many orders were delivered again and how many were lost. At the front left, workers A, B and C take the envelope at the front of the line to their desks. A dial on each desk shows how much of that envelope's visibility timeout is left; the envelope lights when the timeout has run out while the worker still has it, because the queue then hands it to someone else too. A plate on each desk says what the worker is doing. At the back right, the ledger, an open book, counts the orders written in it and those written twice; an index box on it holds the dedupe table. At the front right, the mail service keeps the latest letters sent to customers on its rack, the second copy of a letter lit, and counts letters sent, letters sent twice and repeats it dropped by their idempotency key.",
-      "Una sala de pedidos por correo sobre una placa base. Al fondo a la izquierda, el remitente envía cada pedido como un sobre a la cola; un contador en su puesto muestra cuántos reenvió porque nunca llegó la respuesta de la cola. Al fondo en el medio, el estante de la cola tiene los sobres esperando en fila, con el frente de la fila a la derecha; unos contadores muestran cuántos esperan, cuántos pedidos se entregaron de nuevo y cuántos se perdieron. Adelante a la izquierda, los trabajadores A, B y C llevan el sobre del frente de la fila a sus escritorios. Un dial en cada escritorio muestra cuánto le queda al tiempo de invisibilidad de ese sobre; el sobre se enciende cuando ese tiempo venció y el trabajador todavía lo tiene, porque entonces la cola también se lo da a otro. Una placa en cada escritorio dice qué hace el trabajador. Al fondo a la derecha, el libro, un libro abierto, cuenta los pedidos escritos y los escritos dos veces; una caja de fichas encima guarda la tabla de deduplicación. Adelante a la derecha, el servicio de correo tiene en su estante las últimas cartas enviadas a los clientes, con la segunda copia de una carta encendida, y cuenta las cartas enviadas, las enviadas dos veces y las repeticiones que descartó por su clave de idempotencia.",
+      "A mail-order room on a base plate. At the back left, the sender sends each order as an envelope to the queue; a counter on the sender's booth shows how many it sent again because the queue's reply never came. At the back middle, the queue's rack holds the envelopes waiting in line, the front of the line on the right; counters show how many wait, how many orders were delivered again and how many were lost. Behind the line, a hidden row holds, dimmed, the envelopes of workers that crashed. At the front left, workers A, B and C take the envelope at the front of the line to their desks, and a plaque on the base in front of the desks says when they ack. A dial on each desk shows how much of that envelope's visibility timeout is left; the envelope lights when the timeout has run out while the worker still has it, because the queue then hands it to someone else too. A plate on each desk says what the worker is doing. At the back right, the ledger, an open book, counts the orders written in it and those written twice; an index box on it holds the dedupe table. At the front right, the mail service keeps the latest letters sent to customers on its rack, the second copy of a letter lit, and counts letters sent, letters sent twice and repeats it dropped by their idempotency key.",
+      "Una sala de pedidos por correo sobre una placa base. Al fondo a la izquierda, el remitente envía cada pedido como un sobre a la cola; un contador en su puesto muestra cuántos reenvió porque nunca llegó la respuesta de la cola. Al fondo en el medio, el estante de la cola tiene los sobres esperando en fila, con el frente de la fila a la derecha; unos contadores muestran cuántos esperan, cuántos pedidos se entregaron de nuevo y cuántos se perdieron. Detrás de la fila, una hilera oculta guarda, atenuados, los sobres de los trabajadores que se cayeron. Adelante a la izquierda, los trabajadores A, B y C llevan el sobre del frente de la fila a sus escritorios, y una placa sobre la base delante de los escritorios dice cuándo hacen el ack. Un dial en cada escritorio muestra cuánto le queda al tiempo de invisibilidad de ese sobre; el sobre se enciende cuando ese tiempo venció y el trabajador todavía lo tiene, porque entonces la cola también se lo da a otro. Una placa en cada escritorio dice qué hace el trabajador. Al fondo a la derecha, el libro, un libro abierto, cuenta los pedidos escritos y los escritos dos veces; una caja de fichas encima guarda la tabla de deduplicación. Adelante a la derecha, el servicio de correo tiene en su estante las últimas cartas enviadas a los clientes, con la segunda copia de una carta encendida, y cuenta las cartas enviadas, las enviadas dos veces y las repeticiones que descartó por su clave de idempotencia.",
     ),
     body: [
       plate(),
@@ -236,6 +253,7 @@ export function buildFigure() {
       indexBox(),
       DX.map((_, i) => worker(i)).join(""),
       DX.map((_, i) => desk(i)).join(""),
+      ackPlaque(),
       `<g data-layer="desk"></g>`,
       mail(),
       `<g data-layer="sent"></g>`,

diff --git a/src/lessons/guarantees/sim.ts b/src/lessons/guarantees/sim.ts
@@ -109,7 +109,7 @@ export function makeSim(cfgIn = {}, seed = 1) {
     if (m.acked || m.lastRecv !== recv || m.visibleAt > t + 1e-9) return;
     inflight.delete(m);
     visible.unshift(m);
-    say(t, "shown", { m, held: !!m.holder });
+    say(t, "shown", { m, held: !!m.holder, holder: m.holder ? m.holder.i : -1 });   // who still has it, as of now
     dispatch(t);
   }
 
